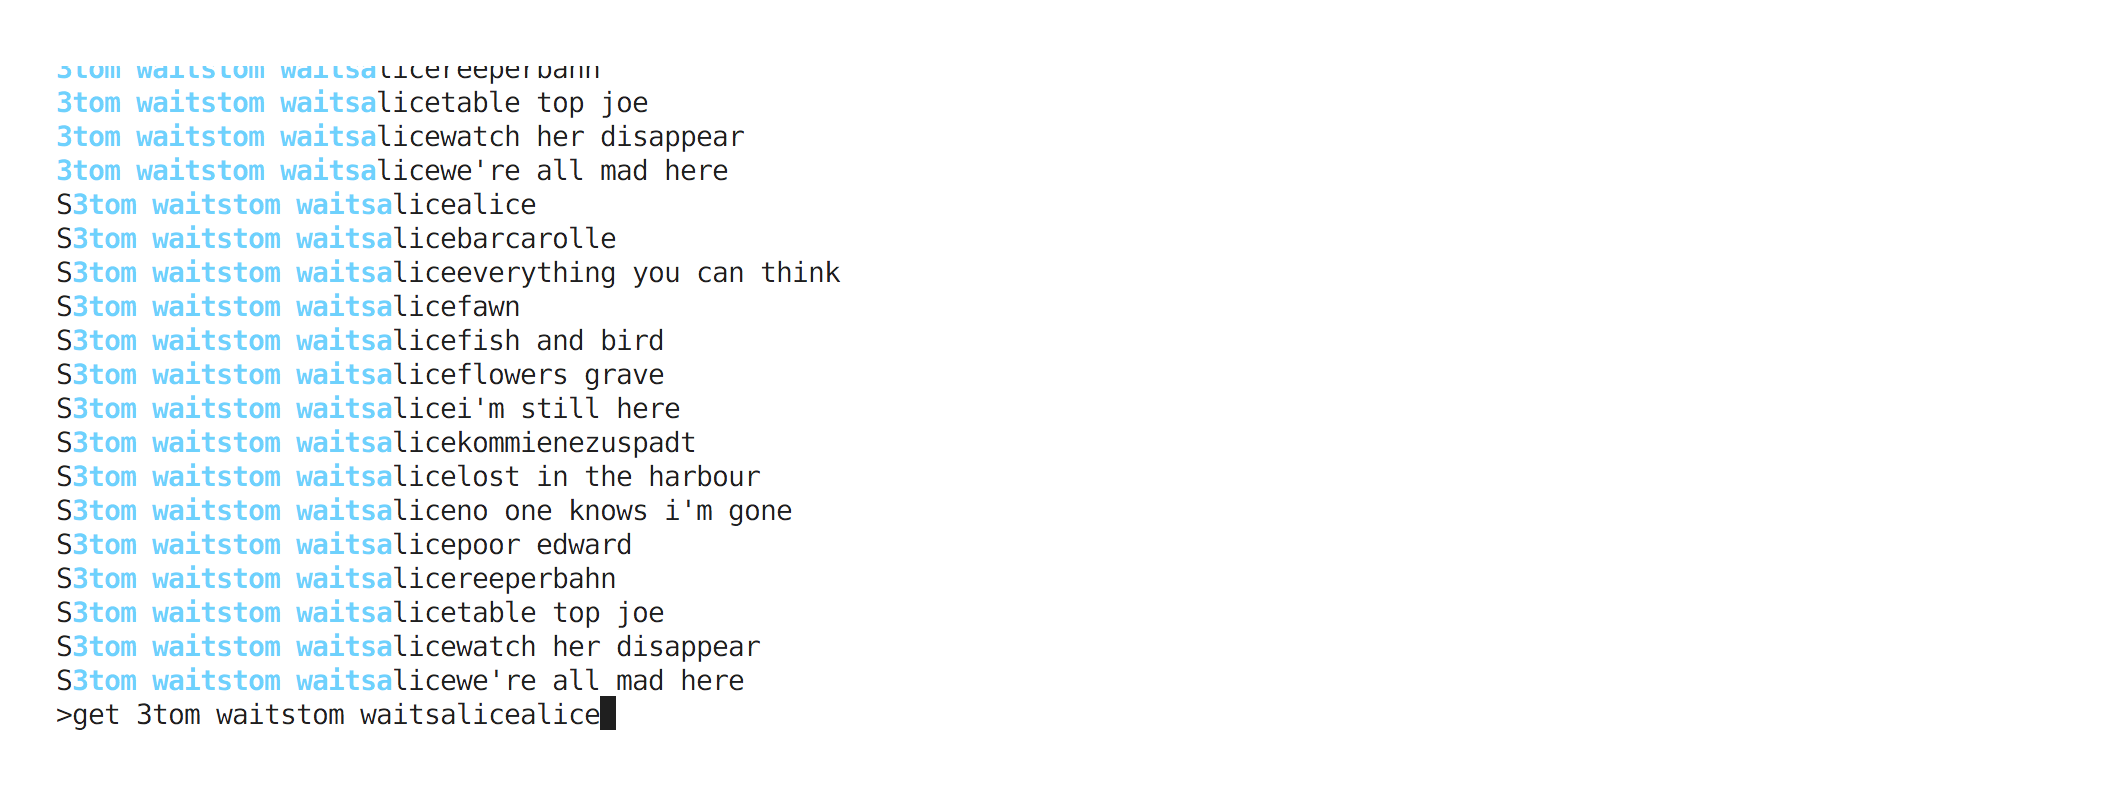
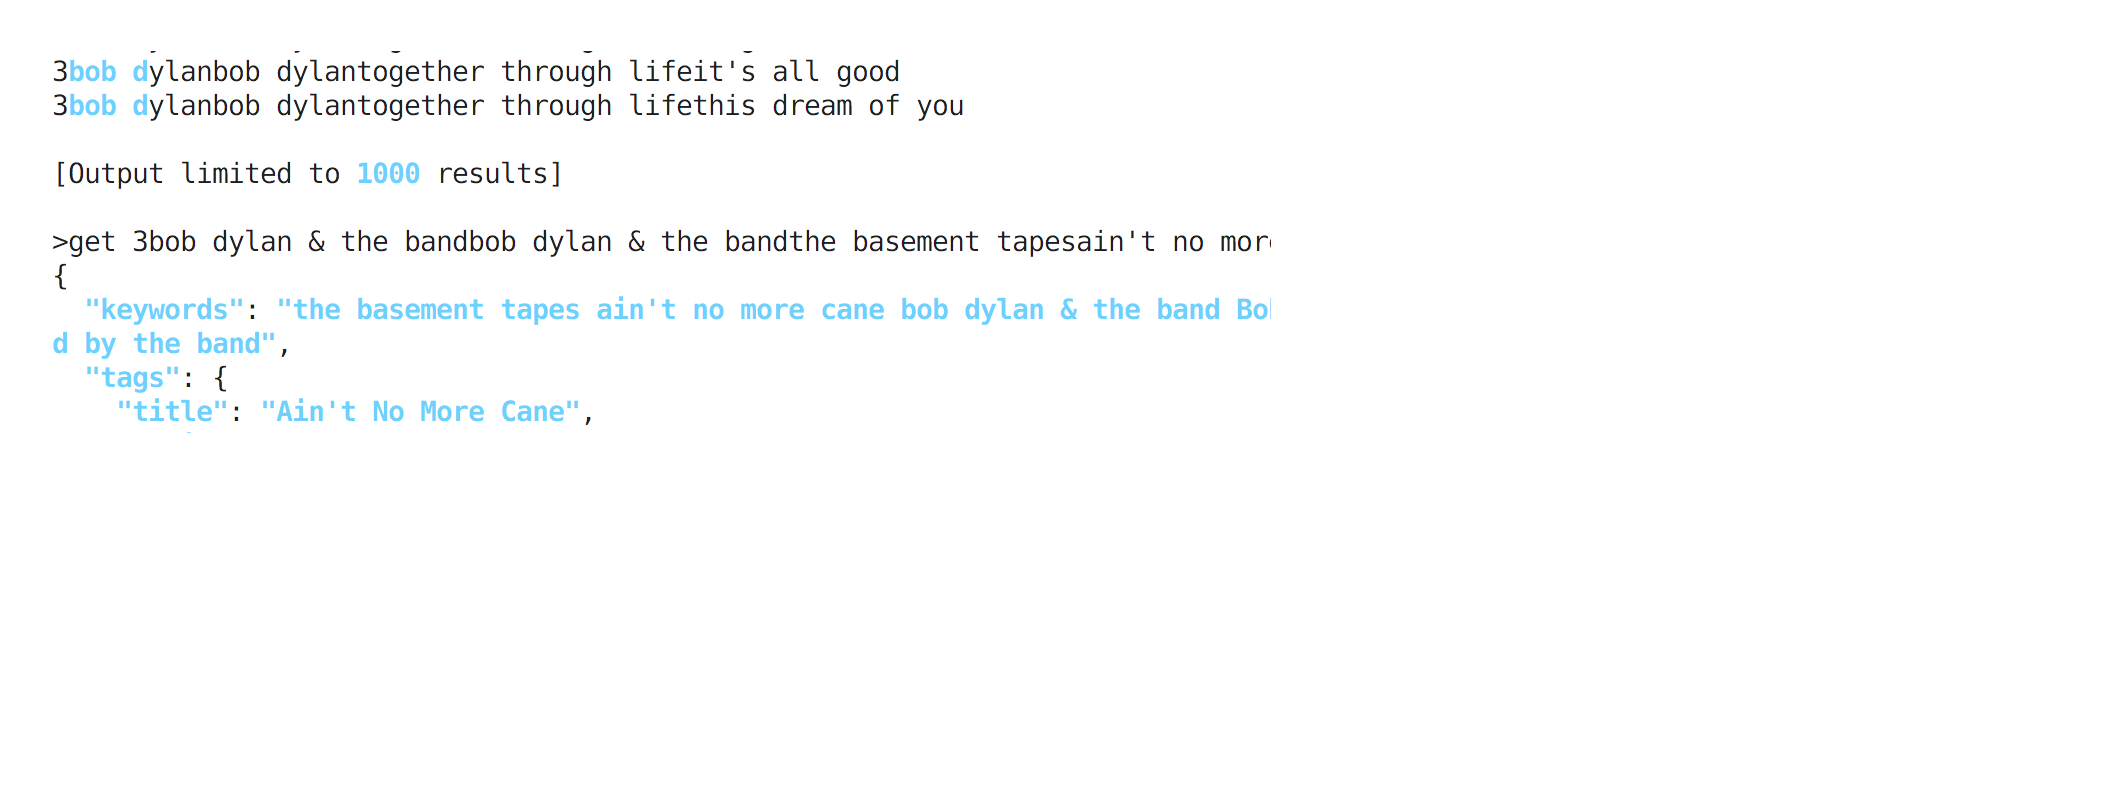
update docs

Changed region(s): [[0.0, 0.0611, 0.5915, 0.9466], [0.5604, 0.3053, 0.5915, 0.3359]]

diff --git a/lib/commands.cc b/lib/commands.cc
@@ -117,6 +117,7 @@ void ldb::range(string prefix, bool surpress_output) {
   key_cache.clear();
 
   int count = 0;
+  int total = 0;
   int maxWidth = 0;
   int maxColumns = 0;
   int padding = 2;
@@ -166,8 +167,21 @@ void ldb::range(string prefix, bool surpress_output) {
 
     if (surpress_output == false) {
       count++;
+      total++;
 
-      if (count == key_limit + 1) break;
+      if (total == key_limit + 1) {
+        cout
+          << endl
+          << "["
+          << "Output limited to "
+          << COLOR_BLUE
+          << key_limit
+          << COLOR_NONE
+          << " results"
+          << "]"
+          << endl;
+        break;
+      }
 
       int replaced = replace(sKey, prefix, hi_start + prefix + hi_end);
 

diff --git a/README.md b/README.md
@@ -3,12 +3,6 @@
 # SYNOPSIS
 A c++ repl and cli tool for leveldb
 
-# INSTALL
-
-```bash
-$ clib install hij1nx/ldb
-```
-
 # BUILD
 
 ## Mac OS X
@@ -104,3 +98,5 @@ and `0` to turn off JSON formatting.
 ```bash
 >json <number>
 ```
+
+![img](/man/json.png)
